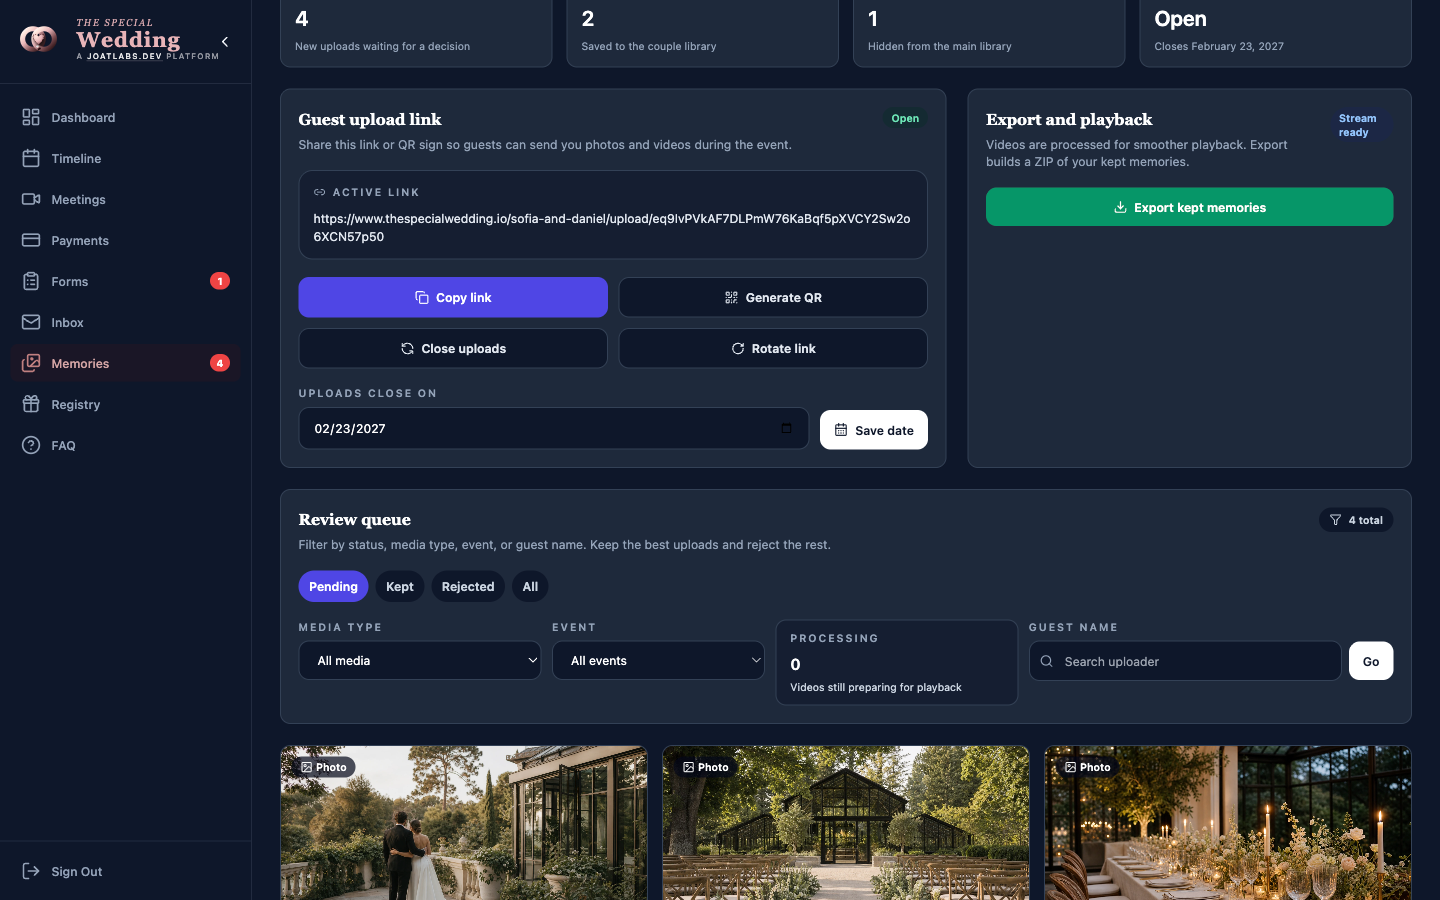
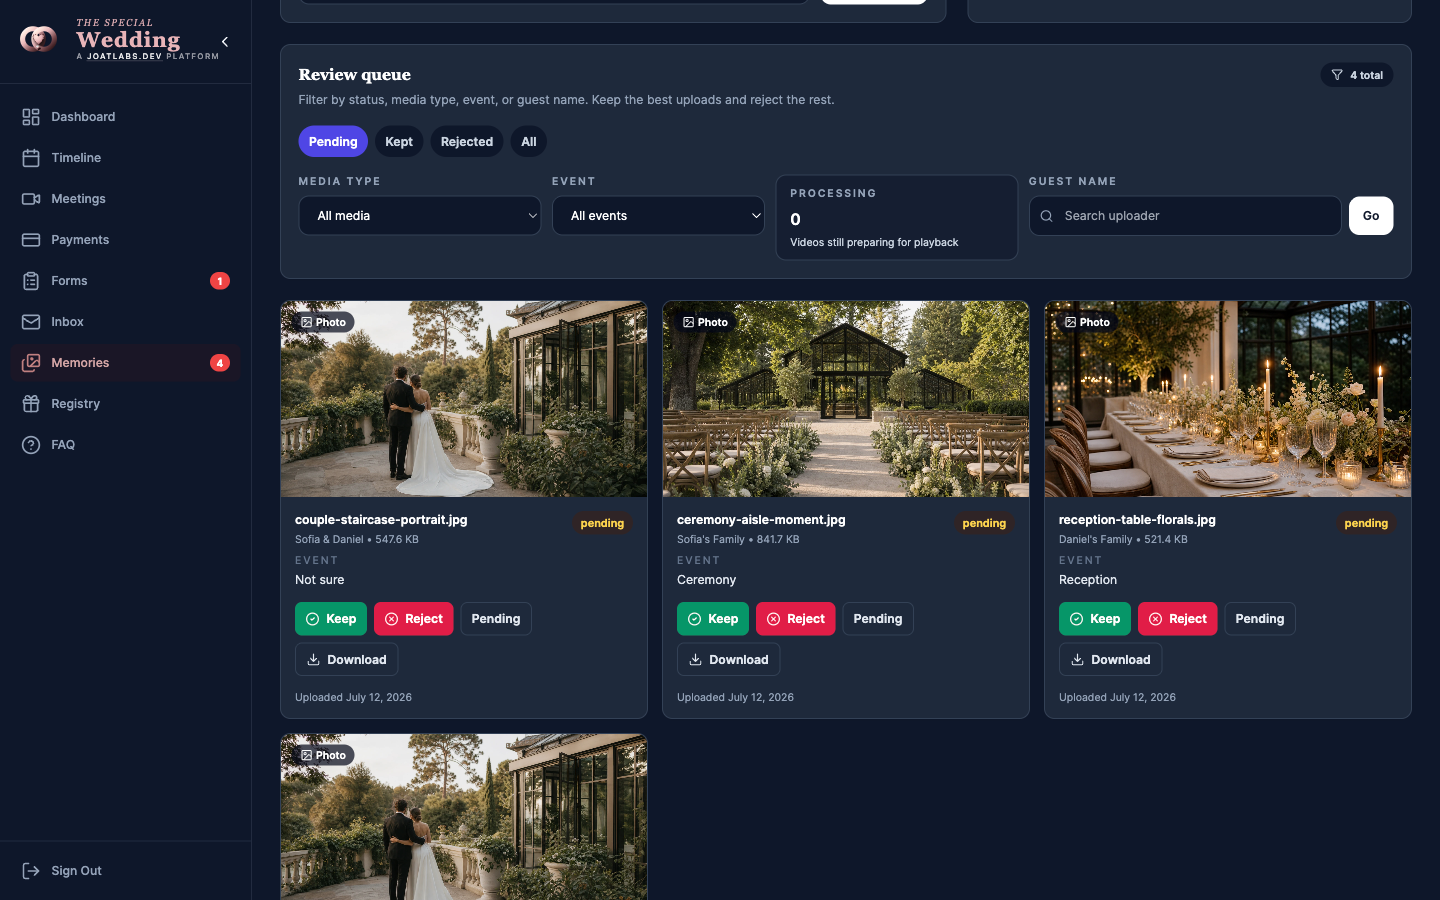
Remove upload credentials from guest memories proof

diff --git a/app/data/marketingCaptureManifest.ts b/app/data/marketingCaptureManifest.ts
@@ -404,21 +404,21 @@ const CAPTURE_SPECS = {
     interaction: 'Open Memories in the couple portal and wait for the review queue.',
     width: 1440,
     height: 900,
[1 lines of base64/hex data omitted]
-    build: '4113e701f25683dcb621bd991009a583604df1d3',
[1 lines of base64/hex data omitted]
+    build: '2e2033e8e2fb3bfe7a06bfa4ea9f4f78e0533ab3',
     reviewReceipt: {
       schemaVersion: 1,
       featureId: 'guest-memories',
-      capturedAt: '2026-07-14T04:55:18.000Z',
-      reviewedAt: '2026-07-14T04:55:31.000Z',
+      capturedAt: '2026-07-15T04:32:09.000Z',
+      reviewedAt: '2026-07-15T04:33:47.000Z',
       reviewer: 'OpenAI Codex manual visual review',
-      appBuildCommit: '4113e701f25683dcb621bd991009a583604df1d3',
[1 lines of base64/hex data omitted]
+      appBuildCommit: '2e2033e8e2fb3bfe7a06bfa4ea9f4f78e0533ab3',
[1 lines of base64/hex data omitted]
       runtimeBuildIdentity: {
         origin: MARKETING_CAPTURE_RUNTIME_ORIGIN,
         identitySelector: MARKETING_CAPTURE_BUILD_IDENTITY_SELECTOR,
-        observedCommit: '4113e701f25683dcb621bd991009a583604df1d3',
-        verifiedAt: '2026-07-14T04:45:00.000Z',
+        observedCommit: '2e2033e8e2fb3bfe7a06bfa4ea9f4f78e0533ab3',
+        verifiedAt: '2026-07-15T04:26:00.000Z',
       },
       browser: 'Google Chrome',
       browserWasVisible: true,

diff --git a/CHANGELOG.md b/CHANGELOG.md
@@ -1,5 +1,9 @@
 # Changelog
 
+## 2026-07-14 — Guest Memories proof keeps upload credentials out of frame
+
+- Replaced the Guest Memories product proof with a manually driven 1440×900 Chrome viewport capture centered on the populated review queue and fictional media cards. The complete couple-portal shell remains visible, while the private upload URL and token stay outside the frame; the build-bound checksum and manual review receipt now reference the corrected original PNG.
+
 ## 2026-07-14 — Marketing proof copy stays inside the captured evidence
 
 - Narrowed the Couple + Boundaries story and the Budget, Forms, and Team feature copy to the controls, totals, records, and role boundaries that the reviewed full-window product images actually show. Regression guards reject the removed payment, timeline, write-back, quote-analysis, and audit-log claims.
